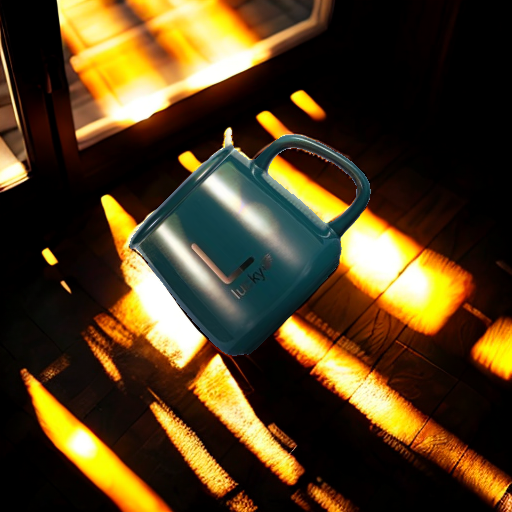
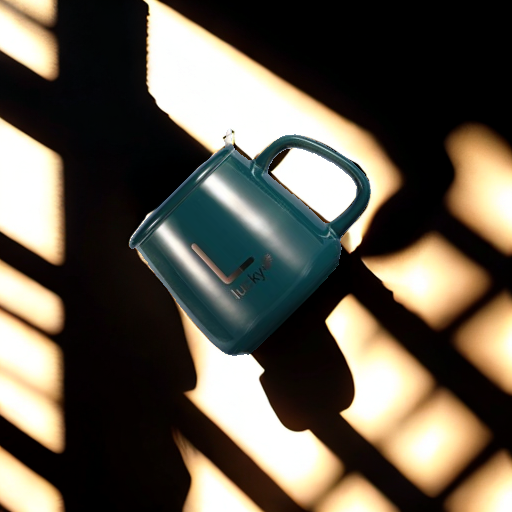
cupr

diff --git a/demo.py b/demo.py
@@ -342,7 +342,7 @@ class BGSource(Enum):
 if __name__ == '__main__':
     path = 'results'
     input_fg = utils.cv2_load_rgb(osp.join(path, 'cupr_canvas.png')) # 前景图片
-    prompt = 'shadow, warm atmosphere' # 基本prompt
+    prompt = 'shadow,cool style,wall background' # 基本prompt
     num_samples = 4 # 生成图片数量
     seed = 3233    # 随机种子
     steps = 20      # 去噪步数
